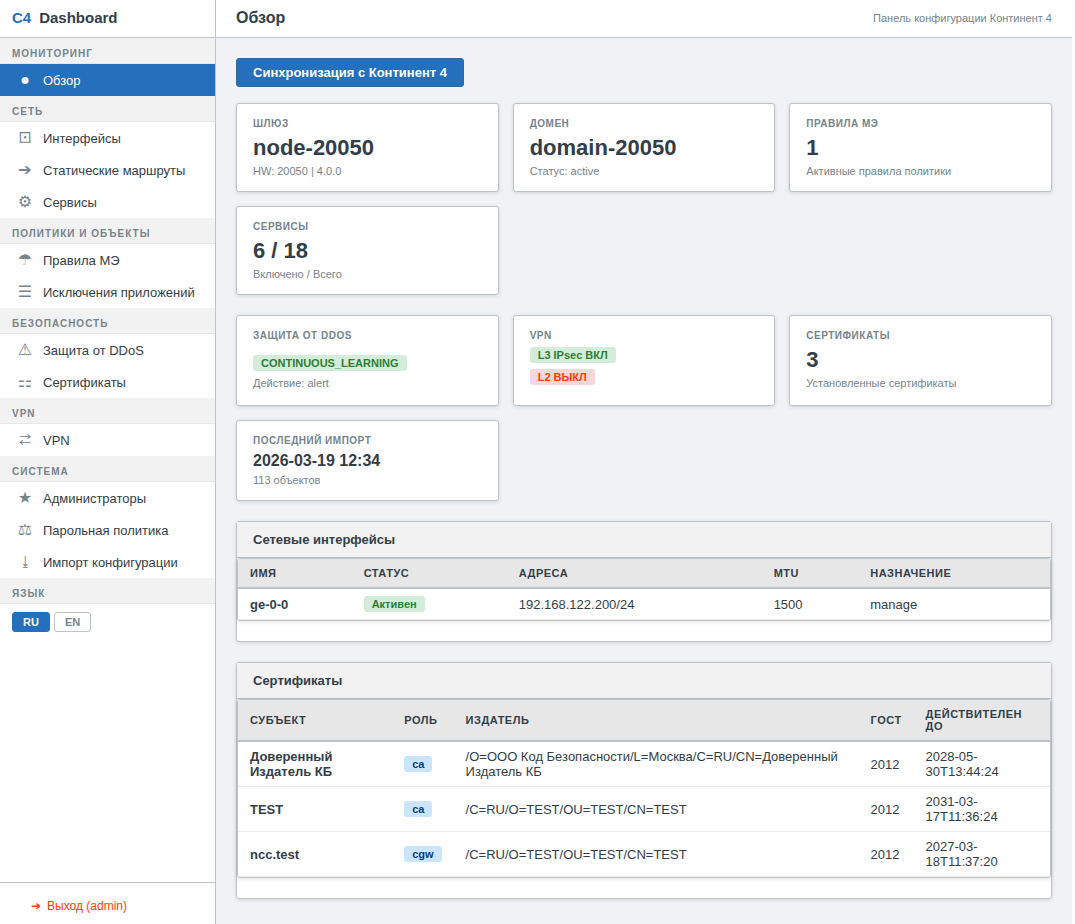
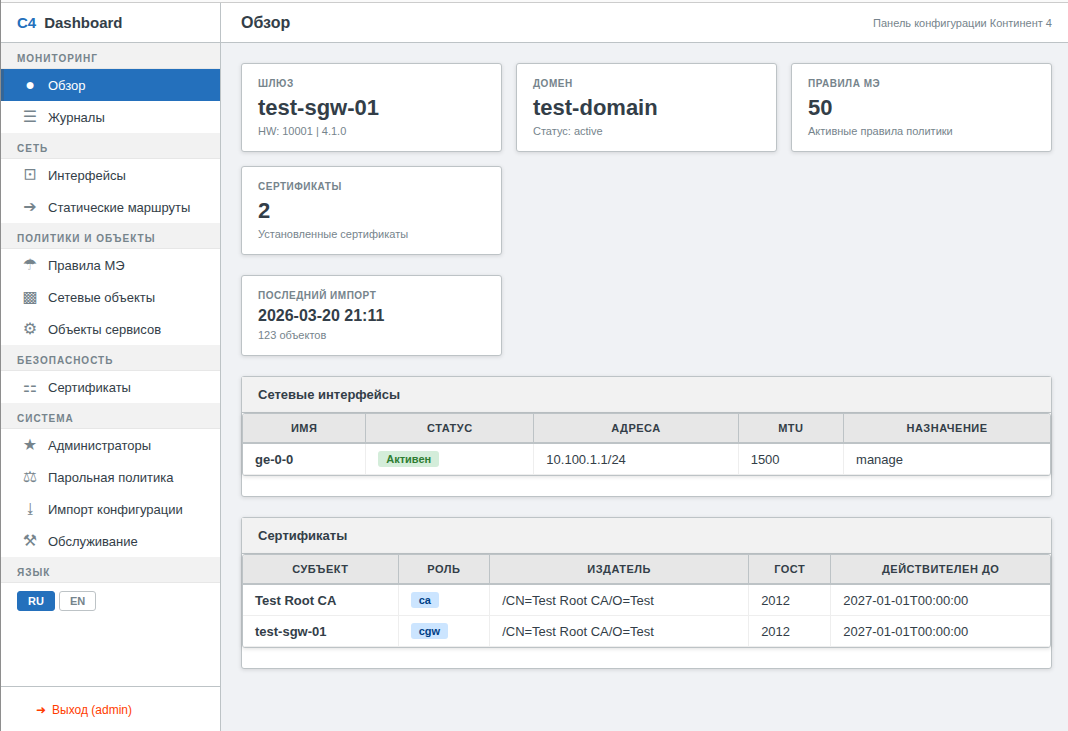
new_screens

diff --git a/README.md b/README.md
@@ -10,9 +10,21 @@
 |---|---|
 | ![Login](c4_dash-demo/1.png) | ![Dashboard](c4_dash-demo/2.png) |
 
-| Сетевые интерфейсы | Статические маршруты | Сертификаты |
-|---|---|---|
-| ![Interfaces](c4_dash-demo/3.png) | ![Routes](c4_dash-demo/4.png) | ![Certificates](c4_dash-demo/5.png) |
+| Журналы ЦУС | Сетевые интерфейсы |
+|---|---|
+| ![Logs](c4_dash-demo/3.png) | ![Interfaces](c4_dash-demo/4.png) |
+
+| Правила МЭ (источники, назначения, сервисы, счетчик) | Сетевые объекты |
+|---|---|
+| ![Firewall Rules](c4_dash-demo/5.png) | ![Network Objects](c4_dash-demo/6.png) |
+
+| Объекты сервисов | Импорт конфигурации |
+|---|---|
+| ![Service Objects](c4_dash-demo/7.png) | ![Import](c4_dash-demo/8.png) |
+
+| Обслуживание (БД логов ЦУС, статистика) |
+|---|
+| ![Maintenance](c4_dash-demo/9.png) |
 
 ## Состав
 
